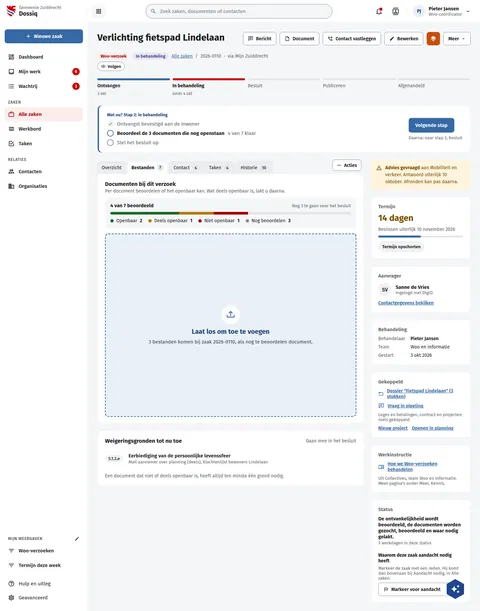
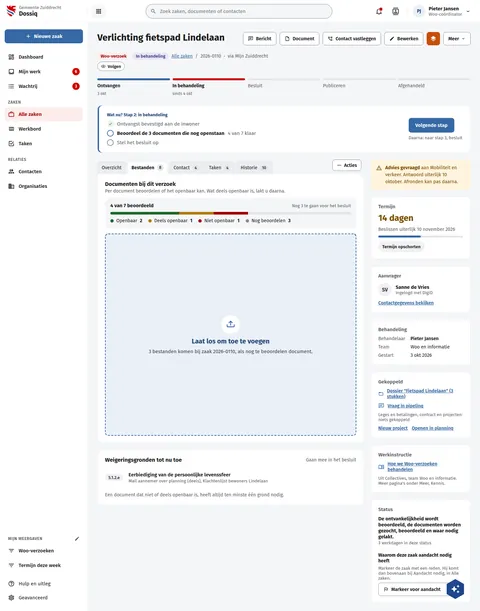
board(dossiq): DqZaakDocumenten lists the case's own draft decision without Beoordelen
Ruben (2 Nov): the example set's draft decision stays in Bestanden, without
the Beoordelen button, since it is the case's own draft and not a submitted
document. Both Documenten boards draw it as the eighth row (Beoordeling an
empty dash, only the row menu) and count Bestanden 8; "4 van 7 beoordeeld"
stays, as the app counts only documents under review.

Assisted-by: ClaudeCode:claude-opus-5-5

Changed region(s): [[0.2188, 0.653, 0.75, 0.8396], [0.3125, 0.4975, 0.6562, 0.5908]]

diff --git a/screens-src/zuiddrecht/DqZaakDocumenten.dc.html b/screens-src/zuiddrecht/DqZaakDocumenten.dc.html
@@ -100,12 +100,12 @@ a{color:#3669a5}a:hover{color:#234a78}
               <div style="overflow-x: auto"><table style="border-collapse: collapse; width: 100%; font-size: 14px">
                 <thead><tr style="text-align: left; color: #5e6168; background: #fafbfc"><th scope="col" style="padding: 10px 12px; font-weight: 600; width: 18px"><input type="checkbox" aria-label="Selecteer alle documenten" style="width: 18px; height: 18px; margin: 0; accent-color: #3669a5"></th><th scope="col" style="padding: 10px 12px; font-weight: 600"><span style="display: flex; align-items: center; gap: 14px"><span style="flex: none; width: 38px"></span><span style="display: inline-flex; align-items: center; gap: 4px"><button type="button" style="border: 0; background: transparent; padding: 0; font: inherit; color: inherit; display: inline-flex; gap: 4px; align-items: center; text-align: left">Document <svg width="14" height="14" viewBox="0 0 24 24" fill="#828a95" aria-hidden="true"><path d="M7.41,15.41L12,10.83L16.59,15.41L18,14L12,8L6,14L7.41,15.41Z"></path></svg></button><button type="button" aria-haspopup="dialog" aria-label="Filteren op Document" title="Filteren op Document" style="width: 22px; height: 22px; padding: 0; border: 0; border-radius: 4px; background: transparent; color: #5e6168; display: inline-flex; align-items: center; justify-content: center"><svg width="14" height="14" viewBox="0 0 24 24" fill="currentColor" aria-hidden="true"><path d="M15,19.88C15.04,20.18 14.94,20.5 14.71,20.71C14.32,21.1 13.69,21.1 13.3,20.71L9.29,16.7C9.06,16.47 8.96,16.16 9,15.87V10.75L4.21,4.62C3.87,4.19 3.95,3.56 4.38,3.22C4.57,3.08 4.78,3 5,3V3H19V3C19.22,3 19.43,3.08 19.62,3.22C20.05,3.56 20.13,4.19 19.79,4.62L15,10.75V19.88M7.04,5L11,10.06V15.58L13,17.58V10.05L16.96,5H7.04Z"></path></svg></button></span></span></th><th scope="col" style="padding: 10px 12px; font-weight: 600; width: 150px"><span style="display: inline-flex; align-items: center; gap: 4px"><button type="button" style="border: 0; background: transparent; padding: 0; font: inherit; color: inherit; display: inline-flex; gap: 4px; align-items: center; text-align: left">Beoordeling <svg width="14" height="14" viewBox="0 0 24 24" fill="#828a95" aria-hidden="true"><path d="M7.41,8.58L12,13.17L16.59,8.58L18,10L12,16L6,10L7.41,8.58Z"></path></svg></button><button type="button" aria-haspopup="dialog" aria-label="Filteren op Beoordeling" title="Filteren op Beoordeling" style="width: 22px; height: 22px; padding: 0; border: 0; border-radius: 4px; background: transparent; color: #5e6168; display: inline-flex; align-items: center; justify-content: center"><svg width="14" height="14" viewBox="0 0 24 24" fill="currentColor" aria-hidden="true"><path d="M15,19.88C15.04,20.18 14.94,20.5 14.71,20.71C14.32,21.1 13.69,21.1 13.3,20.71L9.29,16.7C9.06,16.47 8.96,16.16 9,15.87V10.75L4.21,4.62C3.87,4.19 3.95,3.56 4.38,3.22C4.57,3.08 4.78,3 5,3V3H19V3C19.22,3 19.43,3.08 19.62,3.22C20.05,3.56 20.13,4.19 19.79,4.62L15,10.75V19.88M7.04,5L11,10.06V15.58L13,17.58V10.05L16.96,5H7.04Z"></path></svg></button></span></th><th scope="col" style="padding: 10px 12px; font-weight: 600"><span style="position: absolute; width: 1px; height: 1px; overflow: hidden; clip: rect(0 0 0 0)">Acties</span></th></tr></thead>
                 <tbody>
-                <sc-for list="{{ docs }}" as="d" hint-placeholder-count="7">
+                <sc-for list="{{ docs }}" as="d" hint-placeholder-count="8">
                   <tr style="border-top: 1px solid #eef0f3">
                     <td style="padding: 11px 12px"><input type="checkbox" aria-label="Selecteer {{ d.name }}" style="width: 18px; height: 18px; margin: 0; accent-color: #3669a5"></td>
                     <td style="padding: 11px 12px"><span style="display: flex; align-items: center; gap: 14px"><span style="{{ d.iconBox }}"><svg width="18" height="18" viewBox="0 0 24 24" fill="currentColor"><path d="{{ d.icon }}"></path></svg></span><span style="display: flex; flex-direction: column; gap: 2px; min-width: 0"><a href="#" style="font-size: 14px; font-weight: 600; color: #1b1c1d">{{ d.name }}</a><span style="font-size: 13px; color: #5e6168">{{ d.meta }}</span></span></span></td>
                     <td style="padding: 11px 12px"><span style="display: flex; flex-direction: column; align-items: flex-start; gap: 3px"><span style="{{ d.style }}">{{ d.state }}</span><span style="font-size: 12px; color: #5e6168">{{ d.ground }}</span></span></td>
-                    <td style="padding: 11px 12px"><span style="display: flex; align-items: center; justify-content: flex-end; gap: 14px"><button type="button" aria-label="{{ d.reviewLabel }}" style="{{ d.btn }}">Beoordelen</button><button type="button" aria-label="{{ d.moreLabel }}" aria-haspopup="menu" style="width: 34px; height: 34px; display: inline-flex; align-items: center; justify-content: center; border: 0; border-radius: 8px; background: transparent; color: #3d4047"><svg width="18" height="18" viewBox="0 0 24 24" fill="currentColor"><path d="M16,12A2,2 0 0,1 18,10A2,2 0 0,1 20,12A2,2 0 0,1 18,14A2,2 0 0,1 16,12M10,12A2,2 0 0,1 12,10A2,2 0 0,1 14,12A2,2 0 0,1 12,14A2,2 0 0,1 10,12M4,12A2,2 0 0,1 6,10A2,2 0 0,1 8,12A2,2 0 0,1 6,14A2,2 0 0,1 4,12Z"></path></svg></button></span></td>
+                    <td style="padding: 11px 12px"><span style="display: flex; align-items: center; justify-content: flex-end; gap: 14px"><sc-if value="{{ d.assess }}" hint-placeholder-val="{{ true }}"><button type="button" aria-label="{{ d.reviewLabel }}" style="{{ d.btn }}">Beoordelen</button></sc-if><button type="button" aria-label="{{ d.moreLabel }}" aria-haspopup="menu" style="width: 34px; height: 34px; display: inline-flex; align-items: center; justify-content: center; border: 0; border-radius: 8px; background: transparent; color: #3d4047"><svg width="18" height="18" viewBox="0 0 24 24" fill="currentColor"><path d="M16,12A2,2 0 0,1 18,10A2,2 0 0,1 20,12A2,2 0 0,1 18,14A2,2 0 0,1 16,12M10,12A2,2 0 0,1 12,10A2,2 0 0,1 14,12A2,2 0 0,1 12,14A2,2 0 0,1 10,12M4,12A2,2 0 0,1 6,10A2,2 0 0,1 8,12A2,2 0 0,1 6,14A2,2 0 0,1 4,12Z"></path></svg></button></span></td>
                   </tr>
                 </sc-for>
                 </tbody>
@@ -177,9 +177,9 @@ class Component extends DCLogic {
     }));
     const tabBase = "display: inline-flex; align-items: center; gap: 8px; box-sizing: border-box; min-height: 34px; padding: 8px 12px; margin-bottom: -1px; border: 1px solid #d6d9de; border-bottom: none; border-radius: 8px 8px 0 0; font: 400 14px 'Fira Sans', sans-serif; color: #1b1c1d; background: #eceef1; cursor: pointer; white-space: nowrap;";
     const tab = (on) => on ? tabBase + " background: #ffffff; border-bottom: 1px solid #ffffff; font-weight: 700;" : tabBase;
-    const tabs = [['Overzicht', false], ['Bestanden 7', true], ['Contact 4', false], ['Taken 4', false], ['Historie 10', false]].map(([label, on]) => ({ label, sel: on ? 'true' : 'false', style: tab(on) }));
+    const tabs = [['Overzicht', false], ['Bestanden 8', true], ['Contact 4', false], ['Taken 4', false], ['Historie 10', false]].map(([label, on]) => ({ label, sel: on ? 'true' : 'false', style: tab(on) }));
     const st = (bg, fg) => 'display: inline-block; padding: 3px 10px; border-radius: 12px; font-size: 13px; font-weight: 600; white-space: nowrap; background: ' + bg + '; color: ' + fg;
-    const S = { 'Openbaar': st('#e7f3ea', '#1e6b2a'), 'Deels openbaar': st('#fff4de', '#7a4f00'), 'Niet openbaar': st('#fcedec', '#a30000'), 'Nog beoordelen': st('#f0f1f3', '#3d4047') };
+    const S = { 'Openbaar': st('#e7f3ea', '#1e6b2a'), 'Deels openbaar': st('#fff4de', '#7a4f00'), 'Niet openbaar': st('#fcedec', '#a30000'), 'Nog beoordelen': st('#f0f1f3', '#3d4047'), '—': 'font-size: 14px; color: #1b1c1d' };
     const I = { pdf: 'M19 3H5C3.9 3 3 3.9 3 5V19C3 20.1 3.9 21 5 21H19C20.1 21 21 20.1 21 19V5C21 3.9 20.1 3 19 3M9.5 11.5C9.5 12.3 8.8 13 8 13H7V15H5.5V9H8C8.8 9 9.5 9.7 9.5 10.5V11.5M14.5 13.5C14.5 14.3 13.8 15 13 15H10.5V9H13C13.8 9 14.5 9.7 14.5 10.5V13.5M18.5 10.5H17V11.5H18.5V13H17V15H15.5V9H18.5V10.5M12 10.5H13V13.5H12V10.5M7 10.5H8V11.5H7V10.5Z', mail: 'M22 6C22 4.9 21.1 4 20 4H4C2.9 4 2 4.9 2 6V18C2 19.1 2.9 20 4 20H20C21.1 20 22 19.1 22 18V6M20 6L12 11L4 6H20M20 18H4V8L12 13L20 8V18Z', word: 'M14 2H6C4.89 2 4 2.9 4 4V20C4 21.11 4.89 22 6 22H18C19.11 22 20 21.11 20 20V8L14 2M18 20H6V4H13V9H18V20M17.35 10L15.25 19H13.85L12.05 12.21L10.25 19H8.85L6.65 10H8.15L9.55 16.81L11.35 10H12.65L14.45 16.81L15.85 10H17.35Z', xls: 'M14 2H6C4.89 2 4 2.9 4 4V20C4 21.11 4.89 22 6 22H18C19.11 22 20 21.11 20 20V8L14 2M18 20H6V4H13V9H18V20M12.9 14.5L15.8 19H14L12 15.6L10 19H8.2L11.1 14.5L8.2 10H10L12 13.4L14 10H15.8L12.9 14.5Z' };
     const box = (k) => 'flex: none; width: 32px; height: 32px; border-radius: 8px; display: flex; align-items: center; justify-content: center; ' + (k === 'pdf' ? 'background: #fcedec; color: #a30000;' : k === 'mail' ? 'background: #eaf0f7; color: #234a78;' : k === 'word' ? 'background: #eaf0f7; color: #234a78;' : 'background: #e7f3ea; color: #1e6b2a;');
     const btn = (open) => "height: 34px; padding: 0 14px; border-radius: 8px; font: 600 14px 'Fira Sans', sans-serif; " + (open ? 'border: 0; background: #3669a5; color: #ffffff;' : 'border: 1px solid #828a95; background: #ffffff; color: #1b1c1d;');
@@ -190,8 +190,9 @@ class Component extends DCLogic {
       ['Klachtenlijst bewoners Lindelaan.xlsx', 'xls', 'Excel · 38 kB · 3 juni 2025', 'Niet openbaar', 'grond 5.1.2.e'],
       ['Interne notitie budget.docx', 'word', 'Word · 46 kB · 2 februari 2026', 'Nog beoordelen', ''],
       ['Offerte lantaarnpalen.pdf', 'pdf', 'PDF · 3,1 MB · 20 januari 2026', 'Nog beoordelen', ''],
-      ['Plattegrond lichtmasten.pdf', 'pdf', 'PDF · 5,8 MB · 9 december 2025', 'Nog beoordelen', '']
-    ].map(([name, kind, meta, state, ground]) => ({ name, meta, state, style: S[state], ground, icon: I[kind], iconBox: box(kind), btn: btn(state === 'Nog beoordelen'), reviewLabel: 'Beoordelen: ' + name, moreLabel: 'Meer acties voor ' + name }));
+      ['Plattegrond lichtmasten.pdf', 'pdf', 'PDF · 5,8 MB · 9 december 2025', 'Nog beoordelen', ''],
+      ['Concept Woo-besluit.docx', 'word', 'Word · 2 kB · 7 oktober 2026', '—', '']
+    ].map(([name, kind, meta, state, ground]) => ({ name, meta, state, style: S[state], ground, icon: I[kind], iconBox: box(kind), btn: btn(state === 'Nog beoordelen'), assess: state !== '—', reviewLabel: 'Beoordelen: ' + name, moreLabel: 'Meer acties voor ' + name }));
     const dot = (c) => 'width: 10px; height: 10px; border-radius: 5px; background: ' + c;
     const summary = [['Openbaar', 2, '#1e6b2a'], ['Deels openbaar', 1, '#b07a10'], ['Niet openbaar', 1, '#a30000'], ['Nog beoordelen', 3, '#828a95']].map(([label, count, c]) => ({ label, count, dot: dot(c) }));
     const grounds = [

diff --git a/screens-src/zuiddrecht/DqZaakDocumentenSlepen.dc.html b/screens-src/zuiddrecht/DqZaakDocumentenSlepen.dc.html
@@ -106,12 +106,12 @@ a{color:#3669a5}a:hover{color:#234a78}
               <div style="overflow-x: auto"><table style="border-collapse: collapse; width: 100%; font-size: 14px">
                 <thead><tr style="text-align: left; color: #5e6168; background: #fafbfc"><th scope="col" style="padding: 10px 12px; font-weight: 600; width: 18px"><input type="checkbox" aria-label="Selecteer alle documenten" style="width: 18px; height: 18px; margin: 0; accent-color: #3669a5"></th><th scope="col" style="padding: 10px 12px; font-weight: 600"><span style="display: flex; align-items: center; gap: 14px"><span style="flex: none; width: 38px"></span><span style="display: inline-flex; align-items: center; gap: 4px"><button type="button" style="border: 0; background: transparent; padding: 0; font: inherit; color: inherit; display: inline-flex; gap: 4px; align-items: center; text-align: left">Document <svg width="14" height="14" viewBox="0 0 24 24" fill="#828a95" aria-hidden="true"><path d="M7.41,15.41L12,10.83L16.59,15.41L18,14L12,8L6,14L7.41,15.41Z"></path></svg></button><button type="button" aria-haspopup="dialog" aria-label="Filteren op Document" title="Filteren op Document" style="width: 22px; height: 22px; padding: 0; border: 0; border-radius: 4px; background: transparent; color: #5e6168; display: inline-flex; align-items: center; justify-content: center"><svg width="14" height="14" viewBox="0 0 24 24" fill="currentColor" aria-hidden="true"><path d="M15,19.88C15.04,20.18 14.94,20.5 14.71,20.71C14.32,21.1 13.69,21.1 13.3,20.71L9.29,16.7C9.06,16.47 8.96,16.16 9,15.87V10.75L4.21,4.62C3.87,4.19 3.95,3.56 4.38,3.22C4.57,3.08 4.78,3 5,3V3H19V3C19.22,3 19.43,3.08 19.62,3.22C20.05,3.56 20.13,4.19 19.79,4.62L15,10.75V19.88M7.04,5L11,10.06V15.58L13,17.58V10.05L16.96,5H7.04Z"></path></svg></button></span></span></th><th scope="col" style="padding: 10px 12px; font-weight: 600; width: 150px"><span style="display: inline-flex; align-items: center; gap: 4px"><button type="button" style="border: 0; background: transparent; padding: 0; font: inherit; color: inherit; display: inline-flex; gap: 4px; align-items: center; text-align: left">Beoordeling <svg width="14" height="14" viewBox="0 0 24 24" fill="#828a95" aria-hidden="true"><path d="M7.41,8.58L12,13.17L16.59,8.58L18,10L12,16L6,10L7.41,8.58Z"></path></svg></button><button type="button" aria-haspopup="dialog" aria-label="Filteren op Beoordeling" title="Filteren op Beoordeling" style="width: 22px; height: 22px; padding: 0; border: 0; border-radius: 4px; background: transparent; color: #5e6168; display: inline-flex; align-items: center; justify-content: center"><svg width="14" height="14" viewBox="0 0 24 24" fill="currentColor" aria-hidden="true"><path d="M15,19.88C15.04,20.18 14.94,20.5 14.71,20.71C14.32,21.1 13.69,21.1 13.3,20.71L9.29,16.7C9.06,16.47 8.96,16.16 9,15.87V10.75L4.21,4.62C3.87,4.19 3.95,3.56 4.38,3.22C4.57,3.08 4.78,3 5,3V3H19V3C19.22,3 19.43,3.08 19.62,3.22C20.05,3.56 20.13,4.19 19.79,4.62L15,10.75V19.88M7.04,5L11,10.06V15.58L13,17.58V10.05L16.96,5H7.04Z"></path></svg></button></span></th><th scope="col" style="padding: 10px 12px; font-weight: 600"><span style="position: absolute; width: 1px; height: 1px; overflow: hidden; clip: rect(0 0 0 0)">Acties</span></th></tr></thead>
                 <tbody>
-                <sc-for list="{{ docs }}" as="d" hint-placeholder-count="7">
+                <sc-for list="{{ docs }}" as="d" hint-placeholder-count="8">
                   <tr style="border-top: 1px solid #eef0f3">
                     <td style="padding: 11px 12px"><input type="checkbox" aria-label="Selecteer {{ d.name }}" style="width: 18px; height: 18px; margin: 0; accent-color: #3669a5"></td>
                     <td style="padding: 11px 12px"><span style="display: flex; align-items: center; gap: 14px"><span style="{{ d.iconBox }}"><svg width="18" height="18" viewBox="0 0 24 24" fill="currentColor"><path d="{{ d.icon }}"></path></svg></span><span style="display: flex; flex-direction: column; gap: 2px; min-width: 0"><a href="#" style="font-size: 14px; font-weight: 600; color: #1b1c1d">{{ d.name }}</a><span style="font-size: 13px; color: #5e6168">{{ d.meta }}</span></span></span></td>
                     <td style="padding: 11px 12px"><span style="display: flex; flex-direction: column; align-items: flex-start; gap: 3px"><span style="{{ d.style }}">{{ d.state }}</span><span style="font-size: 12px; color: #5e6168">{{ d.ground }}</span></span></td>
-                    <td style="padding: 11px 12px"><span style="display: flex; align-items: center; justify-content: flex-end; gap: 14px"><button type="button" aria-label="{{ d.reviewLabel }}" style="{{ d.btn }}">Beoordelen</button><button type="button" aria-label="{{ d.moreLabel }}" aria-haspopup="menu" style="width: 34px; height: 34px; display: inline-flex; align-items: center; justify-content: center; border: 0; border-radius: 8px; background: transparent; color: #3d4047"><svg width="18" height="18" viewBox="0 0 24 24" fill="currentColor"><path d="M16,12A2,2 0 0,1 18,10A2,2 0 0,1 20,12A2,2 0 0,1 18,14A2,2 0 0,1 16,12M10,12A2,2 0 0,1 12,10A2,2 0 0,1 14,12A2,2 0 0,1 12,14A2,2 0 0,1 10,12M4,12A2,2 0 0,1 6,10A2,2 0 0,1 8,12A2,2 0 0,1 6,14A2,2 0 0,1 4,12Z"></path></svg></button></span></td>
+                    <td style="padding: 11px 12px"><span style="display: flex; align-items: center; justify-content: flex-end; gap: 14px"><sc-if value="{{ d.assess }}" hint-placeholder-val="{{ true }}"><button type="button" aria-label="{{ d.reviewLabel }}" style="{{ d.btn }}">Beoordelen</button></sc-if><button type="button" aria-label="{{ d.moreLabel }}" aria-haspopup="menu" style="width: 34px; height: 34px; display: inline-flex; align-items: center; justify-content: center; border: 0; border-radius: 8px; background: transparent; color: #3d4047"><svg width="18" height="18" viewBox="0 0 24 24" fill="currentColor"><path d="M16,12A2,2 0 0,1 18,10A2,2 0 0,1 20,12A2,2 0 0,1 18,14A2,2 0 0,1 16,12M10,12A2,2 0 0,1 12,10A2,2 0 0,1 14,12A2,2 0 0,1 12,14A2,2 0 0,1 10,12M4,12A2,2 0 0,1 6,10A2,2 0 0,1 8,12A2,2 0 0,1 6,14A2,2 0 0,1 4,12Z"></path></svg></button></span></td>
                   </tr>
                 </sc-for>
                 </tbody>
@@ -184,9 +184,9 @@ class Component extends DCLogic {
     }));
     const tabBase = "display: inline-flex; align-items: center; gap: 8px; box-sizing: border-box; min-height: 34px; padding: 8px 12px; margin-bottom: -1px; border: 1px solid #d6d9de; border-bottom: none; border-radius: 8px 8px 0 0; font: 400 14px 'Fira Sans', sans-serif; color: #1b1c1d; background: #eceef1; cursor: pointer; white-space: nowrap;";
     const tab = (on) => on ? tabBase + " background: #ffffff; border-bottom: 1px solid #ffffff; font-weight: 700;" : tabBase;
-    const tabs = [['Overzicht', false], ['Bestanden 7', true], ['Contact 4', false], ['Taken 4', false], ['Historie 10', false]].map(([label, on]) => ({ label, sel: on ? 'true' : 'false', style: tab(on) }));
+    const tabs = [['Overzicht', false], ['Bestanden 8', true], ['Contact 4', false], ['Taken 4', false], ['Historie 10', false]].map(([label, on]) => ({ label, sel: on ? 'true' : 'false', style: tab(on) }));
     const st = (bg, fg) => 'display: inline-block; padding: 3px 10px; border-radius: 12px; font-size: 13px; font-weight: 600; white-space: nowrap; background: ' + bg + '; color: ' + fg;
-    const S = { 'Openbaar': st('#e7f3ea', '#1e6b2a'), 'Deels openbaar': st('#fff4de', '#7a4f00'), 'Niet openbaar': st('#fcedec', '#a30000'), 'Nog beoordelen': st('#f0f1f3', '#3d4047') };
+    const S = { 'Openbaar': st('#e7f3ea', '#1e6b2a'), 'Deels openbaar': st('#fff4de', '#7a4f00'), 'Niet openbaar': st('#fcedec', '#a30000'), 'Nog beoordelen': st('#f0f1f3', '#3d4047'), '—': 'font-size: 14px; color: #1b1c1d' };
     const I = { pdf: 'M19 3H5C3.9 3 3 3.9 3 5V19C3 20.1 3.9 21 5 21H19C20.1 21 21 20.1 21 19V5C21 3.9 20.1 3 19 3M9.5 11.5C9.5 12.3 8.8 13 8 13H7V15H5.5V9H8C8.8 9 9.5 9.7 9.5 10.5V11.5M14.5 13.5C14.5 14.3 13.8 15 13 15H10.5V9H13C13.8 9 14.5 9.7 14.5 10.5V13.5M18.5 10.5H17V11.5H18.5V13H17V15H15.5V9H18.5V10.5M12 10.5H13V13.5H12V10.5M7 10.5H8V11.5H7V10.5Z', mail: 'M22 6C22 4.9 21.1 4 20 4H4C2.9 4 2 4.9 2 6V18C2 19.1 2.9 20 4 20H20C21.1 20 22 19.1 22 18V6M20 6L12 11L4 6H20M20 18H4V8L12 13L20 8V18Z', word: 'M14 2H6C4.89 2 4 2.9 4 4V20C4 21.11 4.89 22 6 22H18C19.11 22 20 21.11 20 20V8L14 2M18 20H6V4H13V9H18V20M17.35 10L15.25 19H13.85L12.05 12.21L10.25 19H8.85L6.65 10H8.15L9.55 16.81L11.35 10H12.65L14.45 16.81L15.85 10H17.35Z', xls: 'M14 2H6C4.89 2 4 2.9 4 4V20C4 21.11 4.89 22 6 22H18C19.11 22 20 21.11 20 20V8L14 2M18 20H6V4H13V9H18V20M12.9 14.5L15.8 19H14L12 15.6L10 19H8.2L11.1 14.5L8.2 10H10L12 13.4L14 10H15.8L12.9 14.5Z' };
     const box = (k) => 'flex: none; width: 32px; height: 32px; border-radius: 8px; display: flex; align-items: center; justify-content: center; ' + (k === 'pdf' ? 'background: #fcedec; color: #a30000;' : k === 'mail' ? 'background: #eaf0f7; color: #234a78;' : k === 'word' ? 'background: #eaf0f7; color: #234a78;' : 'background: #e7f3ea; color: #1e6b2a;');
     const btn = (open) => "height: 34px; padding: 0 14px; border-radius: 8px; font: 600 14px 'Fira Sans', sans-serif; " + (open ? 'border: 0; background: #3669a5; color: #ffffff;' : 'border: 1px solid #828a95; background: #ffffff; color: #1b1c1d;');
@@ -197,8 +197,9 @@ class Component extends DCLogic {
       ['Klachtenlijst bewoners Lindelaan.xlsx', 'xls', 'Excel · 38 kB · 3 juni 2025', 'Niet openbaar', 'grond 5.1.2.e'],
       ['Interne notitie budget.docx', 'word', 'Word · 46 kB · 2 februari 2026', 'Nog beoordelen', ''],
       ['Offerte lantaarnpalen.pdf', 'pdf', 'PDF · 3,1 MB · 20 januari 2026', 'Nog beoordelen', ''],
-      ['Plattegrond lichtmasten.pdf', 'pdf', 'PDF · 5,8 MB · 9 december 2025', 'Nog beoordelen', '']
-    ].map(([name, kind, meta, state, ground]) => ({ name, meta, state, style: S[state], ground, icon: I[kind], iconBox: box(kind), btn: btn(state === 'Nog beoordelen'), reviewLabel: 'Beoordelen: ' + name, moreLabel: 'Meer acties voor ' + name }));
+      ['Plattegrond lichtmasten.pdf', 'pdf', 'PDF · 5,8 MB · 9 december 2025', 'Nog beoordelen', ''],
+      ['Concept Woo-besluit.docx', 'word', 'Word · 2 kB · 7 oktober 2026', '—', '']
+    ].map(([name, kind, meta, state, ground]) => ({ name, meta, state, style: S[state], ground, icon: I[kind], iconBox: box(kind), btn: btn(state === 'Nog beoordelen'), assess: state !== '—', reviewLabel: 'Beoordelen: ' + name, moreLabel: 'Meer acties voor ' + name }));
     const dot = (c) => 'width: 10px; height: 10px; border-radius: 5px; background: ' + c;
     const summary = [['Openbaar', 2, '#1e6b2a'], ['Deels openbaar', 1, '#b07a10'], ['Niet openbaar', 1, '#a30000'], ['Nog beoordelen', 3, '#828a95']].map(([label, count, c]) => ({ label, count, dot: dot(c) }));
     const grounds = [

diff --git a/preview/screens/boards/DqZaakDocumenten.html b/preview/screens/boards/DqZaakDocumenten.html
@@ -214,7 +214,7 @@ a{color:var(--sc-primary, #3669a5)}a:hover{color:var(--sc-primary-deep, #234a78)
                 
                   <button type="button" role="tab" aria-selected="false" style="display: inline-flex; align-items: center; gap: 8px; box-sizing: border-box; min-height: 34px; padding: 8px 12px; margin-bottom: -1px; border: 1px solid #d6d9de; border-bottom: none; border-radius: 8px 8px 0 0; font: 400 14px var(--sc-font, 'Fira Sans'), sans-serif; color: var(--sc-work-ink, #1b1c1d); background: #eceef1; cursor: pointer; white-space: nowrap;">Overzicht</button>
                 
-                  <button type="button" role="tab" aria-selected="true" style="display: inline-flex; align-items: center; gap: 8px; box-sizing: border-box; min-height: 34px; padding: 8px 12px; margin-bottom: -1px; border: 1px solid #d6d9de; border-bottom: none; border-radius: 8px 8px 0 0; font: 400 14px var(--sc-font, 'Fira Sans'), sans-serif; color: var(--sc-work-ink, #1b1c1d); background: #eceef1; cursor: pointer; white-space: nowrap; background: #ffffff; border-bottom: 1px solid #ffffff; font-weight: 700;">Bestanden<span style="min-width: 20px; height: 20px; padding: 0 6px; box-sizing: border-box; border-radius: 10px; background: var(--sc-work-line, #e4e6ea); color: var(--sc-work-text, #3d4047); font-size: 12px; font-weight: 600; display: inline-flex; align-items: center; justify-content: center">7</span></button>
+                  <button type="button" role="tab" aria-selected="true" style="display: inline-flex; align-items: center; gap: 8px; box-sizing: border-box; min-height: 34px; padding: 8px 12px; margin-bottom: -1px; border: 1px solid #d6d9de; border-bottom: none; border-radius: 8px 8px 0 0; font: 400 14px var(--sc-font, 'Fira Sans'), sans-serif; color: var(--sc-work-ink, #1b1c1d); background: #eceef1; cursor: pointer; white-space: nowrap; background: #ffffff; border-bottom: 1px solid #ffffff; font-weight: 700;">Bestanden<span style="min-width: 20px; height: 20px; padding: 0 6px; box-sizing: border-box; border-radius: 10px; background: var(--sc-work-line, #e4e6ea); color: var(--sc-work-text, #3d4047); font-size: 12px; font-weight: 600; display: inline-flex; align-items: center; justify-content: center">8</span></button>
                 
                   <button type="button" role="tab" aria-selected="false" style="display: inline-flex; align-items: center; gap: 8px; box-sizing: border-box; min-height: 34px; padding: 8px 12px; margin-bottom: -1px; border: 1px solid #d6d9de; border-bottom: none; border-radius: 8px 8px 0 0; font: 400 14px var(--sc-font, 'Fira Sans'), sans-serif; color: var(--sc-work-ink, #1b1c1d); background: #eceef1; cursor: pointer; white-space: nowrap;">Contact<span style="min-width: 20px; height: 20px; padding: 0 6px; box-sizing: border-box; border-radius: 10px; background: var(--sc-work-line, #e4e6ea); color: var(--sc-work-text, #3d4047); font-size: 12px; font-weight: 600; display: inline-flex; align-items: center; justify-content: center">4</span></button>
                 
@@ -304,6 +304,13 @@ a{color:var(--sc-primary, #3669a5)}a:hover{color:var(--sc-primary-deep, #234a78)
                     <td style="padding: 11px 12px"><span style="display: flex; align-items: center; gap: 14px"><span style="flex: none; width: 32px; height: 32px; border-radius: 8px; display: flex; align-items: center; justify-content: center; background: #fcedec; color: var(--sc-accent-deep, #a30000);"><svg width="18" height="18" viewbox="0 0 24 24" fill="currentColor"><path d="M19 3H5C3.9 3 3 3.9 3 5V19C3 20.1 3.9 21 5 21H19C20.1 21 21 20.1 21 19V5C21 3.9 20.1 3 19 3M9.5 11.5C9.5 12.3 8.8 13 8 13H7V15H5.5V9H8C8.8 9 9.5 9.7 9.5 10.5V11.5M14.5 13.5C14.5 14.3 13.8 15 13 15H10.5V9H13C13.8 9 14.5 9.7 14.5 10.5V13.5M18.5 10.5H17V11.5H18.5V13H17V15H15.5V9H18.5V10.5M12 10.5H13V13.5H12V10.5M7 10.5H8V11.5H7V10.5Z"></path></svg></span><span style="display: flex; flex-direction: column; gap: 2px; min-width: 0"><a href="#" style="font-size: 14px; font-weight: 600; color: var(--sc-work-ink, #1b1c1d)">Plattegrond lichtmasten.pdf</a><span style="font-size: 13px; color: var(--sc-work-muted, #5e6168)">PDF · 5,8 MB · 9 december 2025</span></span></span></td>
                     <td style="padding: 11px 12px"><span style="display: flex; flex-direction: column; align-items: flex-start; gap: 3px"><span style="display: inline-block; padding: 3px 10px; border-radius: 12px; font-size: 13px; font-weight: 600; white-space: nowrap; background: var(--sc-work-chip, #f0f1f3); color: var(--sc-work-text, #3d4047)">Nog beoordelen</span><span style="font-size: 12px; color: var(--sc-work-muted, #5e6168)"></span></span></td>
                     <td style="padding: 11px 12px"><span style="display: flex; align-items: center; justify-content: flex-end; gap: 14px"><button type="button" aria-label="Beoordelen: Plattegrond lichtmasten.pdf" style="height: 34px; padding: 0 14px; border-radius: 8px; font: 600 14px var(--sc-font, 'Fira Sans'), sans-serif; border: 0; background: var(--sc-primary, #3669a5); color: #ffffff;">Beoordelen</button><button type="button" aria-label="Meer acties voor Plattegrond lichtmasten.pdf" aria-haspopup="menu" style="width: 34px; height: 34px; display: inline-flex; align-items: center; justify-content: center; border: 0; border-radius: 8px; background: transparent; color: var(--sc-work-text, #3d4047)"><svg width="18" height="18" viewbox="0 0 24 24" fill="currentColor"><path d="M16,12A2,2 0 0,1 18,10A2,2 0 0,1 20,12A2,2 0 0,1 18,14A2,2 0 0,1 16,12M10,12A2,2 0 0,1 12,10A2,2 0 0,1 14,12A2,2 0 0,1 12,14A2,2 0 0,1 10,12M4,12A2,2 0 0,1 6,10A2,2 0 0,1 8,12A2,2 0 0,1 6,14A2,2 0 0,1 4,12Z"></path></svg></button></span></td>
+                  </tr>
+                
+                  <tr style="border-top: 1px solid var(--sc-work-soft, #eef0f3)">
+                    <td style="padding: 11px 12px"><input type="checkbox" aria-label="Selecteer Concept Woo-besluit.docx" style="width: 18px; height: 18px; margin: 0; accent-color: var(--sc-primary, #3669a5)"></td>
+                    <td style="padding: 11px 12px"><span style="display: flex; align-items: center; gap: 14px"><span style="flex: none; width: 32px; height: 32px; border-radius: 8px; display: flex; align-items: center; justify-content: center; background: var(--sc-primary-light, #eaf0f7); color: var(--sc-primary-deep, #234a78);"><svg width="18" height="18" viewbox="0 0 24 24" fill="currentColor"><path d="M14 2H6C4.89 2 4 2.9 4 4V20C4 21.11 4.89 22 6 22H18C19.11 22 20 21.11 20 20V8L14 2M18 20H6V4H13V9H18V20M17.35 10L15.25 19H13.85L12.05 12.21L10.25 19H8.85L6.65 10H8.15L9.55 16.81L11.35 10H12.65L14.45 16.81L15.85 10H17.35Z"></path></svg></span><span style="display: flex; flex-direction: column; gap: 2px; min-width: 0"><a href="#" style="font-size: 14px; font-weight: 600; color: var(--sc-work-ink, #1b1c1d)">Concept Woo-besluit.docx</a><span style="font-size: 13px; color: var(--sc-work-muted, #5e6168)">Word · 2 kB · 7 oktober 2026</span></span></span></td>
+                    <td style="padding: 11px 12px"><span style="display: flex; flex-direction: column; align-items: flex-start; gap: 3px"><span style="font-size: 14px; color: var(--sc-work-ink, #1b1c1d)">—</span><span style="font-size: 12px; color: var(--sc-work-muted, #5e6168)"></span></span></td>
+                    <td style="padding: 11px 12px"><span style="display: flex; align-items: center; justify-content: flex-end; gap: 14px"><button type="button" aria-label="Meer acties voor Concept Woo-besluit.docx" aria-haspopup="menu" style="width: 34px; height: 34px; display: inline-flex; align-items: center; justify-content: center; border: 0; border-radius: 8px; background: transparent; color: var(--sc-work-text, #3d4047)"><svg width="18" height="18" viewbox="0 0 24 24" fill="currentColor"><path d="M16,12A2,2 0 0,1 18,10A2,2 0 0,1 20,12A2,2 0 0,1 18,14A2,2 0 0,1 16,12M10,12A2,2 0 0,1 12,10A2,2 0 0,1 14,12A2,2 0 0,1 12,14A2,2 0 0,1 10,12M4,12A2,2 0 0,1 6,10A2,2 0 0,1 8,12A2,2 0 0,1 6,14A2,2 0 0,1 4,12Z"></path></svg></button></span></td>
                   </tr>
                 
                 </tbody>

diff --git a/preview/screens/boards/DqZaakDocumentenSlepen.html b/preview/screens/boards/DqZaakDocumentenSlepen.html
@@ -214,7 +214,7 @@ a{color:var(--sc-primary, #3669a5)}a:hover{color:var(--sc-primary-deep, #234a78)
                 
                   <button type="button" role="tab" aria-selected="false" style="display: inline-flex; align-items: center; gap: 8px; box-sizing: border-box; min-height: 34px; padding: 8px 12px; margin-bottom: -1px; border: 1px solid #d6d9de; border-bottom: none; border-radius: 8px 8px 0 0; font: 400 14px var(--sc-font, 'Fira Sans'), sans-serif; color: var(--sc-work-ink, #1b1c1d); background: #eceef1; cursor: pointer; white-space: nowrap;">Overzicht</button>
                 
-                  <button type="button" role="tab" aria-selected="true" style="display: inline-flex; align-items: center; gap: 8px; box-sizing: border-box; min-height: 34px; padding: 8px 12px; margin-bottom: -1px; border: 1px solid #d6d9de; border-bottom: none; border-radius: 8px 8px 0 0; font: 400 14px var(--sc-font, 'Fira Sans'), sans-serif; color: var(--sc-work-ink, #1b1c1d); background: #eceef1; cursor: pointer; white-space: nowrap; background: #ffffff; border-bottom: 1px solid #ffffff; font-weight: 700;">Bestanden<span style="min-width: 20px; height: 20px; padding: 0 6px; box-sizing: border-box; border-radius: 10px; background: var(--sc-work-line, #e4e6ea); color: var(--sc-work-text, #3d4047); font-size: 12px; font-weight: 600; display: inline-flex; align-items: center; justify-content: center">7</span></button>
+                  <button type="button" role="tab" aria-selected="true" style="display: inline-flex; align-items: center; gap: 8px; box-sizing: border-box; min-height: 34px; padding: 8px 12px; margin-bottom: -1px; border: 1px solid #d6d9de; border-bottom: none; border-radius: 8px 8px 0 0; font: 400 14px var(--sc-font, 'Fira Sans'), sans-serif; color: var(--sc-work-ink, #1b1c1d); background: #eceef1; cursor: pointer; white-space: nowrap; background: #ffffff; border-bottom: 1px solid #ffffff; font-weight: 700;">Bestanden<span style="min-width: 20px; height: 20px; padding: 0 6px; box-sizing: border-box; border-radius: 10px; background: var(--sc-work-line, #e4e6ea); color: var(--sc-work-text, #3d4047); font-size: 12px; font-weight: 600; display: inline-flex; align-items: center; justify-content: center">8</span></button>
                 
                   <button type="button" role="tab" aria-selected="false" style="display: inline-flex; align-items: center; gap: 8px; box-sizing: border-box; min-height: 34px; padding: 8px 12px; margin-bottom: -1px; border: 1px solid #d6d9de; border-bottom: none; border-radius: 8px 8px 0 0; font: 400 14px var(--sc-font, 'Fira Sans'), sans-serif; color: var(--sc-work-ink, #1b1c1d); background: #eceef1; cursor: pointer; white-space: nowrap;">Contact<span style="min-width: 20px; height: 20px; padding: 0 6px; box-sizing: border-box; border-radius: 10px; background: var(--sc-work-line, #e4e6ea); color: var(--sc-work-text, #3d4047); font-size: 12px; font-weight: 600; display: inline-flex; align-items: center; justify-content: center">4</span></button>
                 
@@ -310,6 +310,13 @@ a{color:var(--sc-primary, #3669a5)}a:hover{color:var(--sc-primary-deep, #234a78)
                     <td style="padding: 11px 12px"><span style="display: flex; align-items: center; gap: 14px"><span style="flex: none; width: 32px; height: 32px; border-radius: 8px; display: flex; align-items: center; justify-content: center; background: #fcedec; color: var(--sc-accent-deep, #a30000);"><svg width="18" height="18" viewbox="0 0 24 24" fill="currentColor"><path d="M19 3H5C3.9 3 3 3.9 3 5V19C3 20.1 3.9 21 5 21H19C20.1 21 21 20.1 21 19V5C21 3.9 20.1 3 19 3M9.5 11.5C9.5 12.3 8.8 13 8 13H7V15H5.5V9H8C8.8 9 9.5 9.7 9.5 10.5V11.5M14.5 13.5C14.5 14.3 13.8 15 13 15H10.5V9H13C13.8 9 14.5 9.7 14.5 10.5V13.5M18.5 10.5H17V11.5H18.5V13H17V15H15.5V9H18.5V10.5M12 10.5H13V13.5H12V10.5M7 10.5H8V11.5H7V10.5Z"></path></svg></span><span style="display: flex; flex-direction: column; gap: 2px; min-width: 0"><a href="#" style="font-size: 14px; font-weight: 600; color: var(--sc-work-ink, #1b1c1d)">Plattegrond lichtmasten.pdf</a><span style="font-size: 13px; color: var(--sc-work-muted, #5e6168)">PDF · 5,8 MB · 9 december 2025</span></span></span></td>
                     <td style="padding: 11px 12px"><span style="display: flex; flex-direction: column; align-items: flex-start; gap: 3px"><span style="display: inline-block; padding: 3px 10px; border-radius: 12px; font-size: 13px; font-weight: 600; white-space: nowrap; background: var(--sc-work-chip, #f0f1f3); color: var(--sc-work-text, #3d4047)">Nog beoordelen</span><span style="font-size: 12px; color: var(--sc-work-muted, #5e6168)"></span></span></td>
                     <td style="padding: 11px 12px"><span style="display: flex; align-items: center; justify-content: flex-end; gap: 14px"><button type="button" aria-label="Beoordelen: Plattegrond lichtmasten.pdf" style="height: 34px; padding: 0 14px; border-radius: 8px; font: 600 14px var(--sc-font, 'Fira Sans'), sans-serif; border: 0; background: var(--sc-primary, #3669a5); color: #ffffff;">Beoordelen</button><button type="button" aria-label="Meer acties voor Plattegrond lichtmasten.pdf" aria-haspopup="menu" style="width: 34px; height: 34px; display: inline-flex; align-items: center; justify-content: center; border: 0; border-radius: 8px; background: transparent; color: var(--sc-work-text, #3d4047)"><svg width="18" height="18" viewbox="0 0 24 24" fill="currentColor"><path d="M16,12A2,2 0 0,1 18,10A2,2 0 0,1 20,12A2,2 0 0,1 18,14A2,2 0 0,1 16,12M10,12A2,2 0 0,1 12,10A2,2 0 0,1 14,12A2,2 0 0,1 12,14A2,2 0 0,1 10,12M4,12A2,2 0 0,1 6,10A2,2 0 0,1 8,12A2,2 0 0,1 6,14A2,2 0 0,1 4,12Z"></path></svg></button></span></td>
+                  </tr>
+                
+                  <tr style="border-top: 1px solid var(--sc-work-soft, #eef0f3)">
+                    <td style="padding: 11px 12px"><input type="checkbox" aria-label="Selecteer Concept Woo-besluit.docx" style="width: 18px; height: 18px; margin: 0; accent-color: var(--sc-primary, #3669a5)"></td>
+                    <td style="padding: 11px 12px"><span style="display: flex; align-items: center; gap: 14px"><span style="flex: none; width: 32px; height: 32px; border-radius: 8px; display: flex; align-items: center; justify-content: center; background: var(--sc-primary-light, #eaf0f7); color: var(--sc-primary-deep, #234a78);"><svg width="18" height="18" viewbox="0 0 24 24" fill="currentColor"><path d="M14 2H6C4.89 2 4 2.9 4 4V20C4 21.11 4.89 22 6 22H18C19.11 22 20 21.11 20 20V8L14 2M18 20H6V4H13V9H18V20M17.35 10L15.25 19H13.85L12.05 12.21L10.25 19H8.85L6.65 10H8.15L9.55 16.81L11.35 10H12.65L14.45 16.81L15.85 10H17.35Z"></path></svg></span><span style="display: flex; flex-direction: column; gap: 2px; min-width: 0"><a href="#" style="font-size: 14px; font-weight: 600; color: var(--sc-work-ink, #1b1c1d)">Concept Woo-besluit.docx</a><span style="font-size: 13px; color: var(--sc-work-muted, #5e6168)">Word · 2 kB · 7 oktober 2026</span></span></span></td>
+                    <td style="padding: 11px 12px"><span style="display: flex; flex-direction: column; align-items: flex-start; gap: 3px"><span style="font-size: 14px; color: var(--sc-work-ink, #1b1c1d)">—</span><span style="font-size: 12px; color: var(--sc-work-muted, #5e6168)"></span></span></td>
+                    <td style="padding: 11px 12px"><span style="display: flex; align-items: center; justify-content: flex-end; gap: 14px"><button type="button" aria-label="Meer acties voor Concept Woo-besluit.docx" aria-haspopup="menu" style="width: 34px; height: 34px; display: inline-flex; align-items: center; justify-content: center; border: 0; border-radius: 8px; background: transparent; color: var(--sc-work-text, #3d4047)"><svg width="18" height="18" viewbox="0 0 24 24" fill="currentColor"><path d="M16,12A2,2 0 0,1 18,10A2,2 0 0,1 20,12A2,2 0 0,1 18,14A2,2 0 0,1 16,12M10,12A2,2 0 0,1 12,10A2,2 0 0,1 14,12A2,2 0 0,1 12,14A2,2 0 0,1 10,12M4,12A2,2 0 0,1 6,10A2,2 0 0,1 8,12A2,2 0 0,1 6,14A2,2 0 0,1 4,12Z"></path></svg></button></span></td>
                   </tr>
                 
                 </tbody>
